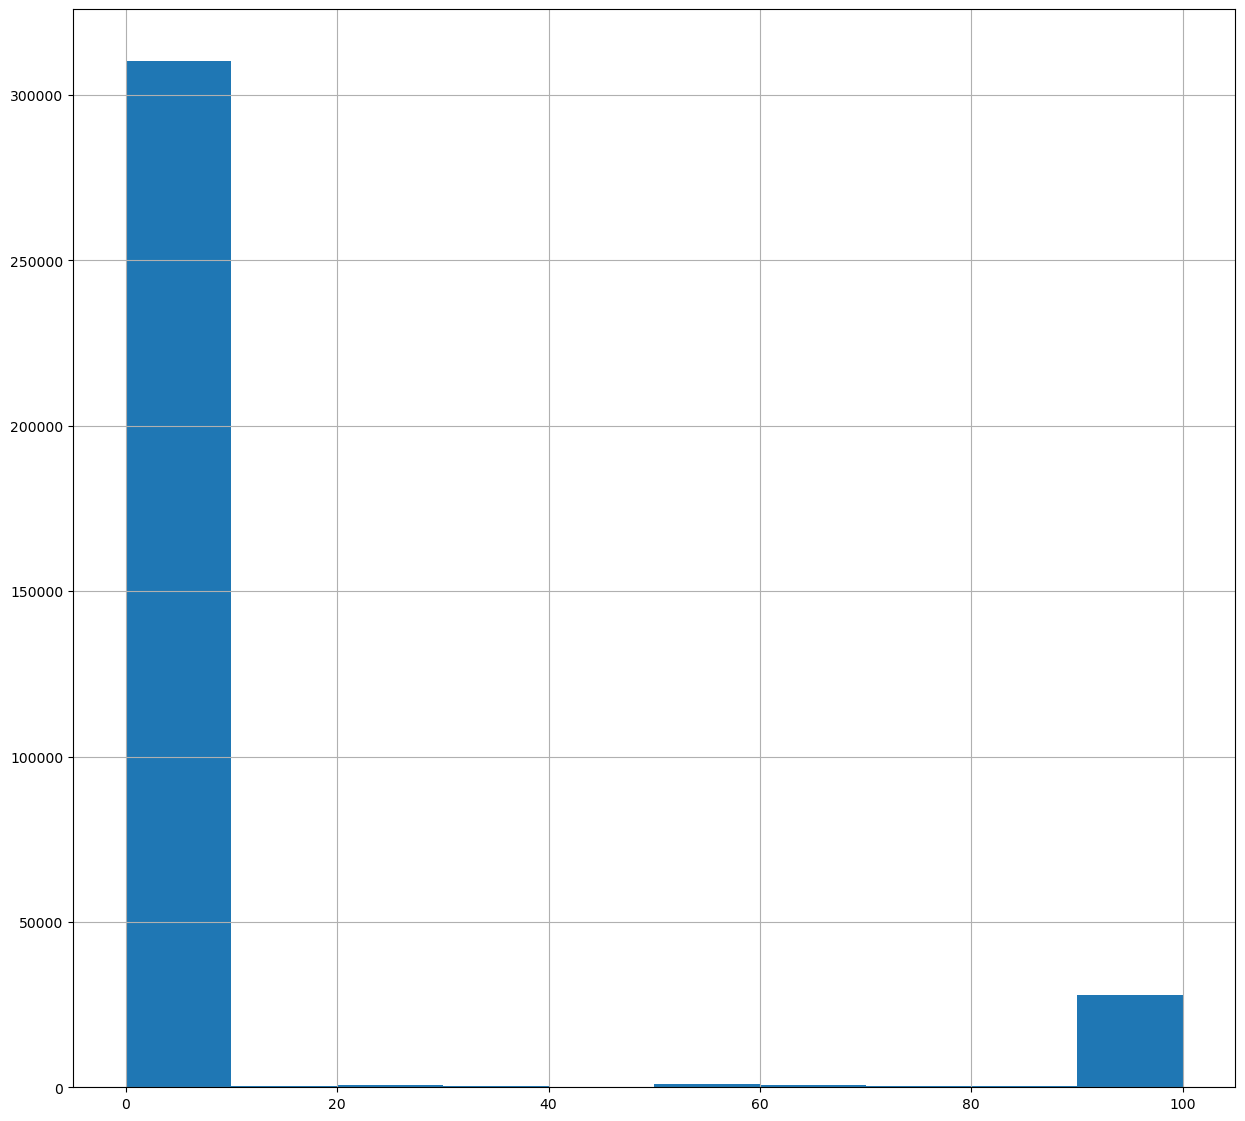
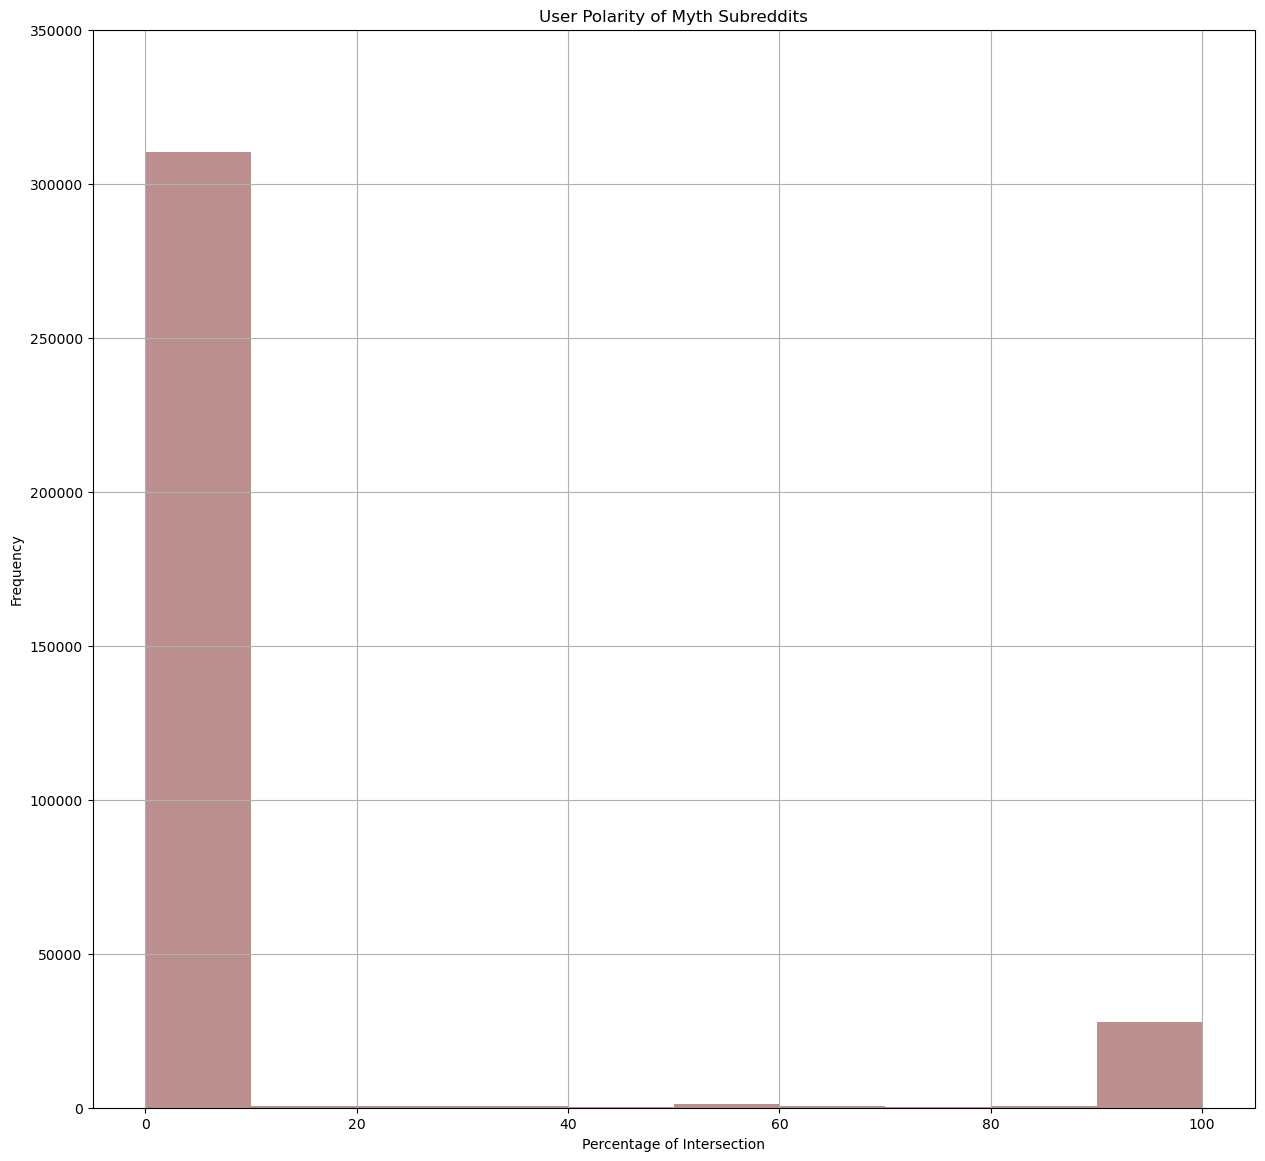
paired visualizations

diff --git a/src/visualization/plot_graphs.py b/src/visualization/plot_graphs.py
@@ -10,11 +10,25 @@ def polarity_histogram(polarity_path, save_path):
     
     df = pd.read_csv(polarity_path)
     categories = ['science (%)', 'myth (%)', 'politics (%)']
+    colors = ["lightsteelblue", "rosybrown", "plum"]
+    i = 0 
     for c in categories:
-        df[c].hist()
+        df[c].hist(color = colors[i])
+        i += 1
+        plt.ylim(0, 350_000)
+        plt.xlabel('Percentage of Intersection')
+        plt.ylabel('Frequency')
+        plt.title('User Polarity of ' + c[:-4].capitalize() + ' Subreddits')
+        
         plt.savefig(save_path + '/' + c + '.png', bbox_inches = 'tight')
         plt.clf()
-    
+    plt.hist([df[categories[0]], df[categories[1]], df[categories[2]]], label=['Science', 'Myth', 'Politics'], color = colors)
+    plt.legend(loc='upper right')
+    plt.xlabel('Percentage of Intersection')
+    plt.ylabel('Frequency')
+    plt.title('User Polarity of All Subreddits')
+    plt.savefig(save_path + '/all_polarity.png', bbox_inches = 'tight')
+    plt.clf()
 def count_chart(count_dict_path, save_path):
     plt.clf()
     
@@ -38,3 +52,18 @@ def polarity_chart(polarity_dict_path, save_paths):
         plot.savefig(save_paths[i], dpi=400)
         i += 1
         plt.clf()
+    #science-politics
+    total = sub_dfs[0] + sub_dfs[2]
+    new_weight = sub_dfs[2] / total
+    plot = sns.heatmap(new_weight, cmap="Reds")
+    plot.set_title('Science-Politics Overlap')
+    plot.collections[0].colorbar.set_label("Tendency to Political Misinformation")
+    plt.savefig(save_paths[3], dpi=400)
+    plt.clf()
+    #science-myth
+    total = sub_dfs[0] + sub_dfs[1]
+    new_weight = sub_dfs[1] / total
+    plot = sns.heatmap(new_weight, cmap="Reds")
+    plot.set_title('Science-Myth Overlap')
+    plot.collections[0].colorbar.set_label("Tendency to Myth Misinformation")
+    plt.savefig(save_paths[4], dpi=400)
